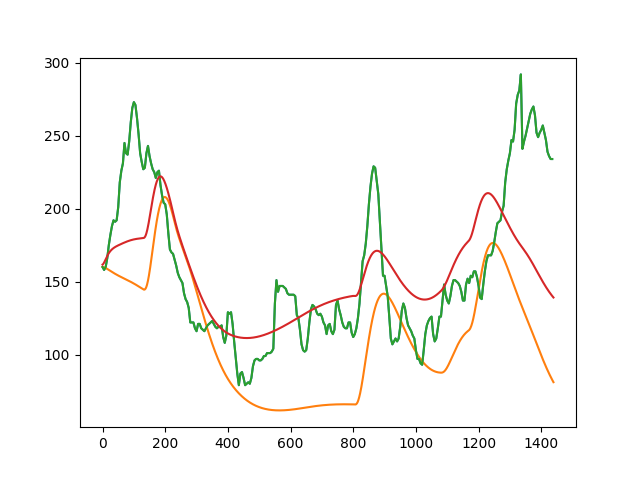
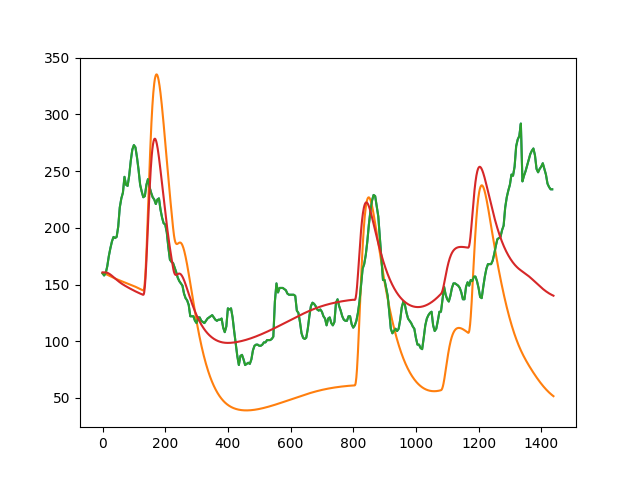
try smaller TauM

diff --git a/pump/validation.py b/pump/validation.py
@@ -112,7 +112,7 @@ def parse_t1d_xml(xml_data, date=None, offset=0) -> OhioT1DMTrace:
 
     meals = []
     for (t, carbs) in M.items():
-        meals.append(Meal(t, int(carbs), DEFAULT_MEAL))
+        meals.append(Meal(t, int(carbs), 10))
 
     return OhioT1DMTrace(G, meals, I)
 
